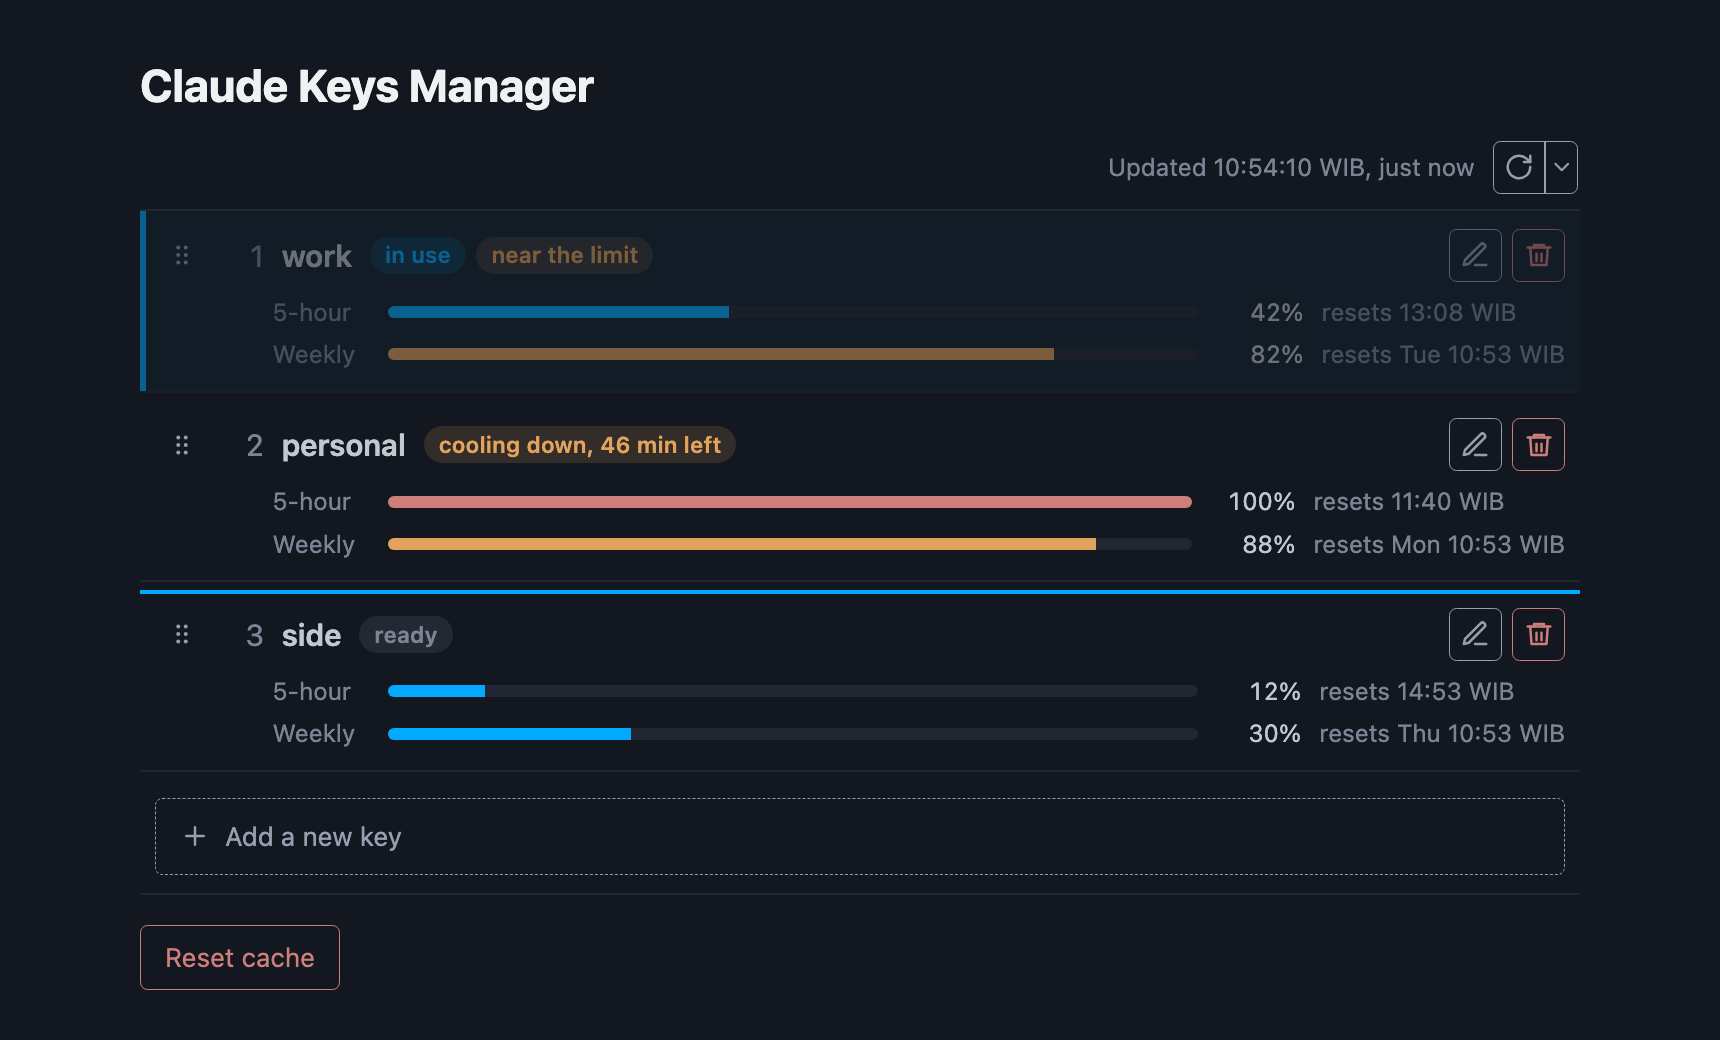
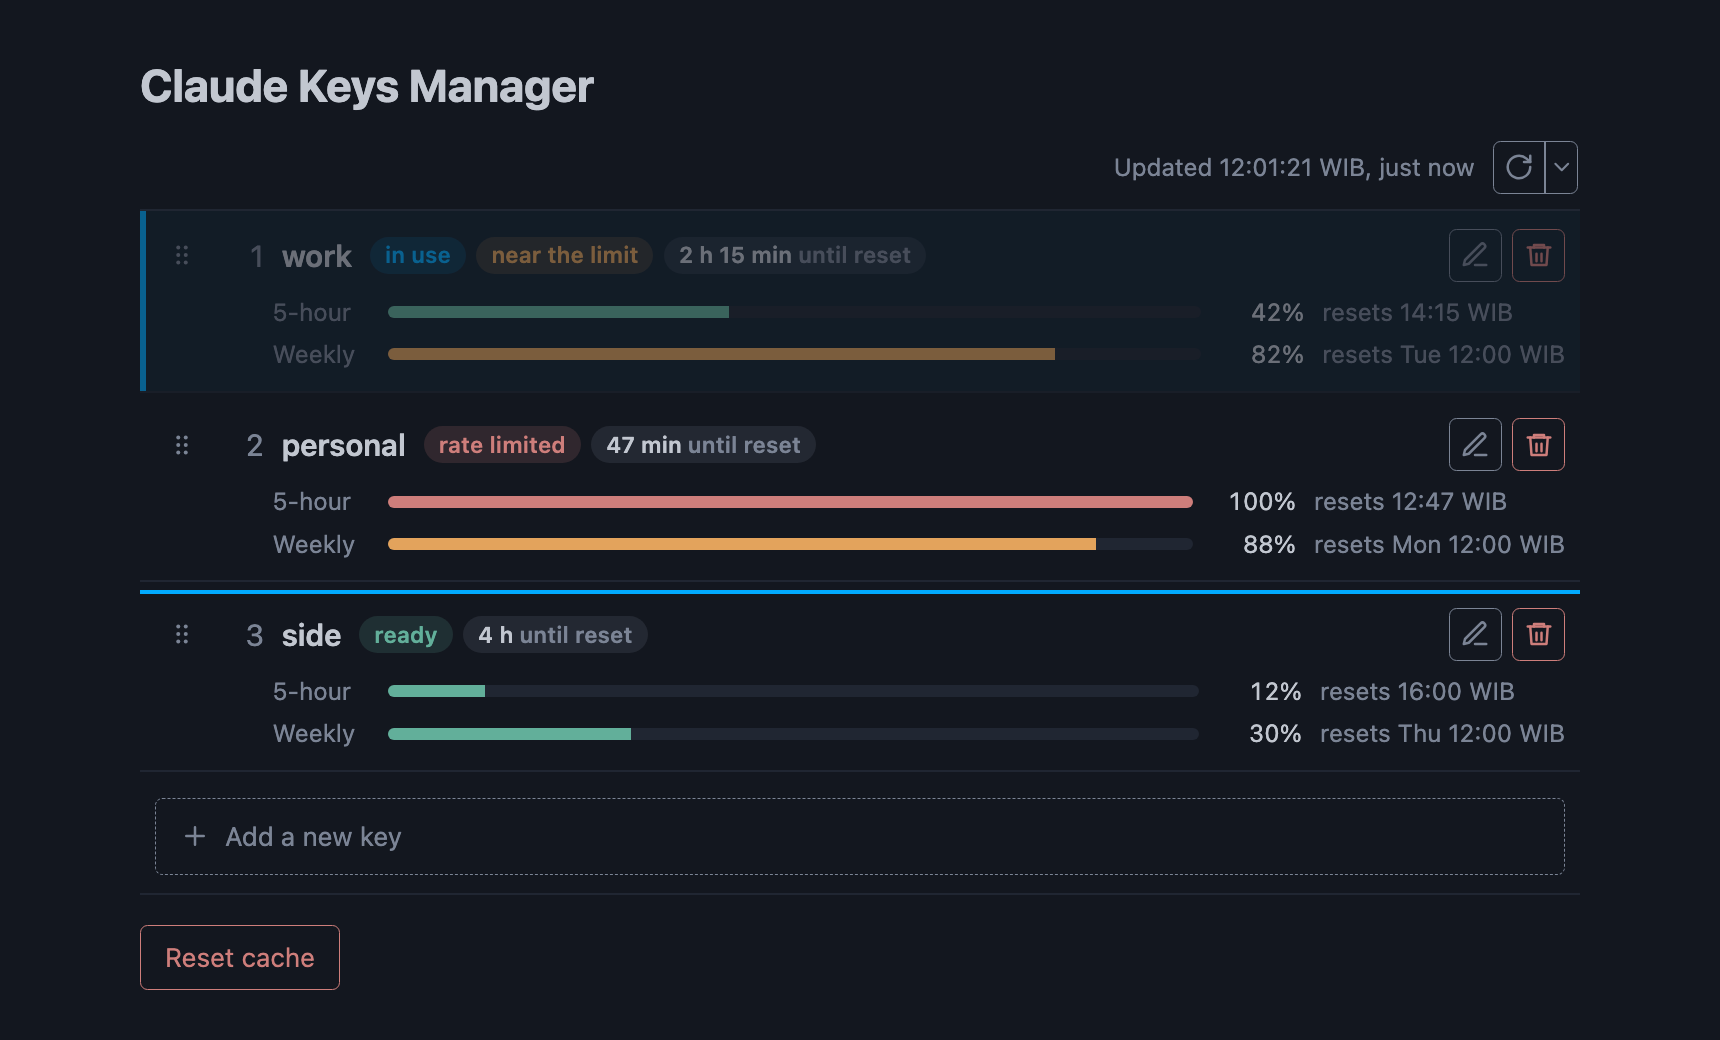
feat: color theme, status chips, and a reset that clears usage

diff --git a/src/claude_keyproxy/ui/theme.css b/src/claude_keyproxy/ui/theme.css
@@ -1,0 +1,71 @@
+/* The color theme. Change a value here to recolor the whole page: Pico.css and style.css read only these.
+   The light palette applies by default, the dark one when the system is in dark mode. */
+
+:root {
+  --bg: #fff;               /* page background */
+  --surface: #fff;          /* dialogs and menus */
+  --surface-2: #fbfcfc;     /* dialog header and footer, fields, notes */
+  --text: #373c44;
+  --muted: #646b79;         /* secondary text, outline buttons, the time chip */
+  --border: #e7eaf0;        /* row rules, menu borders, empty bars */
+  --border-strong: #cfd5e2; /* field borders */
+  --accent: #0172ad;        /* links, focus, the key in use */
+  --accent-fill: #0172ad;   /* the background of the main button */
+  --ok: #1d6a54;            /* the "ready" chip, usage bars below the warning level */
+  --warn: #a35200;          /* near the limit, cooling down, bars from 80% */
+  --danger: #883935;        /* rate limited, bars from 95%, delete, errors */
+  --on-fill: #fff;          /* text on a filled button */
+}
+
+@media (prefers-color-scheme: dark) {
+  :root {
+    --bg: #13171f;
+    --surface: #181c25;
+    --surface-2: #1a1f28;
+    --text: #c2c7d0;
+    --muted: #7b8495;
+    --border: #202632;
+    --border-strong: #2a3140;
+    --accent: #01aaff;
+    --accent-fill: #0172ad;
+    --ok: #62af9a;
+    --warn: #e3a35c;
+    --danger: #ce7e7b;
+  }
+}
+
+/* Pico's own variables, taken from the theme. :root:root outranks Pico's :root:not(...) selectors. */
+:root:root {
+  --pico-background-color: var(--bg);
+  --pico-color: var(--text);
+  --pico-h1-color: var(--text);
+  --pico-h3-color: var(--text);
+  --pico-muted-color: var(--muted);
+  --pico-muted-border-color: var(--border);
+  --pico-primary: var(--accent);
+  --pico-primary-background: var(--accent-fill);
+  --pico-primary-border: var(--accent-fill);
+  --pico-primary-hover: color-mix(in srgb, var(--accent) 70%, var(--text));
+  --pico-primary-hover-background: color-mix(in srgb, var(--accent-fill) 85%, var(--text));
+  --pico-primary-hover-border: var(--pico-primary-hover-background);
+  --pico-primary-focus: color-mix(in srgb, var(--accent) 45%, transparent);
+  --pico-primary-inverse: var(--on-fill);
+  --pico-secondary: var(--muted);
+  --pico-secondary-hover: var(--text);
+  --pico-secondary-border: var(--border-strong);
+  --pico-secondary-hover-border: var(--muted);
+  --pico-del-color: var(--danger);
+  --pico-ins-color: var(--ok);
+  --pico-card-background-color: var(--surface);
+  --pico-card-sectioning-background-color: var(--surface-2);
+  --pico-card-border-color: var(--border);
+  --pico-dropdown-background-color: var(--surface);
+  --pico-dropdown-border-color: var(--border);
+  --pico-dropdown-hover-background-color: var(--border);
+  --pico-dropdown-color: var(--text);
+  --pico-form-element-background-color: var(--surface-2);
+  --pico-form-element-border-color: var(--border-strong);
+  --pico-form-element-color: var(--text);
+  --pico-code-background-color: var(--surface-2);
+  --pico-code-color: var(--muted);
+}

diff --git a/src/claude_keyproxy/ui/app.js b/src/claude_keyproxy/ui/app.js
@@ -88,9 +88,12 @@ document.addEventListener("alpine:init", () => {
     state(k) {
       if (!k.last4) return { text: "key file missing", cls: "missing" };
       const left = this.cooldown?.[k.name];
-      if (left) return { text: `cooling down, ${duration(left)} left`, cls: "cool" };
+      if (left) {  // a cooldown also follows a rejected token, which is not a rate limit
+        const limited = this.usage?.[k.name]?.status === "rejected";
+        return limited ? { text: "rate limited", cls: "limited" } : { text: "cooling down", cls: "cool" };
+      }
       if (k.name === this.current) return { text: "in use", cls: "current" };
-      return { text: this.cooldown ? "ready" : "", cls: "" };
+      return { text: this.cooldown ? "ready" : "", cls: "ready" };
     },
 
     quota(k) {
@@ -111,13 +114,19 @@ document.addEventListener("alpine:init", () => {
       return { bars, note: "" };
     },
 
-    // Anthropic's status for the key, a second chip. allowed_warning: past one of its warning thresholds.
-    // A rejected key that is cooling down already says so.
-    limit(k) {
-      const status = this.usage?.[k.name]?.status;
-      if (status === "allowed_warning") return { text: "near the limit", cls: "near" };
-      if (status === "rejected" && !this.cooldown?.[k.name]) return { text: "rate limited", cls: "limited" };
-      return { text: "", cls: "" };
+    // the chips after a key's name: its state, Anthropic's warning, and the time until its limit resets
+    chips(k) {
+      const out = [this.state(k)];
+      if (this.usage?.[k.name]?.status === "allowed_warning") out.push({ text: "near the limit", cls: "near" });
+      const left = this.cooldown?.[k.name] || this.resetIn(k); // a cooling key waits for its cooldown instead
+      if (left) out.push({ time: duration(left), text: " until reset", cls: "" });
+      return out.filter((c) => c.text);
+    },
+
+    // seconds until the key's 5-hour window resets, 0 when unknown or already past
+    resetIn(k) {
+      const w = this.usage?.[k.name]?.["5h"];
+      return w ? Math.max(0, Math.round(w.reset - this.now / 1000)) : 0;
     },
 
     // "5h 42% · 7d 61%", beside the name on phones while the usage is folded
@@ -146,7 +155,7 @@ document.addEventListener("alpine:init", () => {
     get dlgText() {
       return {
         delete: "Removes the key and its token file.",
-        reset: "Resets the cooling down status, so every key is ready.",
+        reset: "Resets the cooling down status and the usage, so every key is ready.",
         probe: "Sends a 1-token request with every key to read its usage.",
       }[this.dlg.mode] || "";
     },
@@ -244,8 +253,9 @@ document.addEventListener("alpine:init", () => {
     },
 
     async reset() {
-      this.cooldown = await call("POST", "/cache/reset", {});
+      await call("POST", "/cache/reset", {});
       this.$refs.dlg.close();
+      await this.poll();
     },
 
     async move(from, to, focus) {

diff --git a/src/claude_keyproxy/ui/index.html b/src/claude_keyproxy/ui/index.html
@@ -6,6 +6,7 @@
 <title>Claude Keys Manager</title>
 <link rel="icon" href="data:,">
 <link rel="stylesheet" href="/_keyproxy/pico.min.css">
+<link rel="stylesheet" href="/_keyproxy/theme.css">
 <link rel="stylesheet" href="/_keyproxy/style.css">
 <script src="/_keyproxy/app.js" defer></script>
 <script src="/_keyproxy/alpine.min.js" defer></script>
@@ -22,7 +23,7 @@
       <details class="more" x-ref="more" @click.outside="$el.open = false" @keydown.escape="$el.open = false">
         <summary role="button" class="icon outline secondary" aria-label="More options"><svg viewBox="0 0 24 24" aria-hidden="true"><path d="m6 9 6 6 6-6"/></svg></summary>
         <ul>
-          <li><a href="#" @click.prevent="$refs.more.open = false; openDialog('probe')">Check usage of all keys…</a></li>
+          <li><a href="#" @click.prevent="$refs.more.open = false; openDialog('probe')">Check usage of all keys</a></li>
         </ul>
       </details>
     </span>
@@ -38,8 +39,9 @@
           <span class="pos mono" x-text="i + 1"></span>
           <span class="name"><span class="label" x-text="k.name"></span><svg class="chev" viewBox="0 0 24 24" aria-hidden="true"><path d="m6 9 6 6 6-6"/></svg><span class="mini" x-text="mini(k)"></span></span>
           <span class="chips">
-            <span class="state" :class="state(k).cls" x-text="state(k).text"></span>
-            <span class="state" :class="limit(k).cls" x-text="limit(k).text"></span>
+            <template x-for="c in chips(k)" :key="c.text">
+              <span class="state" :class="c.cls"><span class="time" x-show="c.time" x-text="c.time"></span><span x-text="c.text"></span></span>
+            </template>
           </span>
           <span class="actions">
             <button type="button" class="icon outline secondary" title="New token" :aria-label="`New token for ${k.name}`"

diff --git a/src/claude_keyproxy/ui/style.css b/src/claude_keyproxy/ui/style.css
@@ -1,13 +1,9 @@
-/* App-specific rules on top of Pico.css. Colors come from Pico's variables, so dark mode is free. */
+/* App-specific rules on top of Pico.css. Every color comes from theme.css. */
 
 :root {
   --pico-font-size: 93.75%; /* 15px at every width; Pico grows it up to 131% on wide screens */
   --pico-form-element-spacing-vertical: 0.5rem;
   --pico-form-element-spacing-horizontal: 0.75rem;
-  --warn: #a35200;
-}
-@media (prefers-color-scheme: dark) {
-  :root:not([data-theme="light"]) { --warn: #e3a35c; }
 }
 
 main.container { max-width: 720px; padding-top: 2rem; }
@@ -57,7 +53,9 @@ li.dragging { opacity: 0.5; }
   font-weight: 600;
 }
 .state:empty { display: none; }
+.state .time { color: var(--text); }  /* the time in the "until reset" chip */
 .state.current { --tone: var(--pico-primary); }
+.state.ready { --tone: var(--ok); }
 .state.cool { --tone: var(--warn); }
 .state.missing, .state.limited { --tone: var(--pico-del-color); }
 .state.near { --tone: var(--warn); }
@@ -81,7 +79,7 @@ button.red[class], button.red[class]:is(:hover, :focus, :active) {
 }
 button.red[class]:not(.outline) {
   --pico-background-color: var(--pico-del-color);
-  --pico-color: #fff;
+  --pico-color: var(--on-fill);
 }
 button.add {
   display: flex;
@@ -189,7 +187,7 @@ dialog footer {
 .win { display: contents; }
 .pct { white-space: nowrap; text-align: right; color: var(--pico-color); font-variant-numeric: tabular-nums; }
 .bar { height: 6px; border-radius: 3px; background: var(--pico-muted-border-color); overflow: hidden; }
-.bar > span { display: block; height: 100%; width: 0; background: var(--pico-primary); }
+.bar > span { display: block; height: 100%; width: 0; background: var(--ok); }
 .bar.high > span { background: var(--warn); }
 .bar.full > span { background: var(--pico-del-color); }
 

diff --git a/src/claude_keyproxy/manager.py b/src/claude_keyproxy/manager.py
@@ -14,7 +14,7 @@ POST   /_keyproxy/api/keys/<name>/open  opens the token file in the default text
                                      never passes through the API.
 PUT    /_keyproxy/api/order          {"order": [names]} sets priority 1..n in that order
 GET    /_keyproxy/api/cache          the cooldowns, {name: seconds left}
-POST   /_keyproxy/api/cache/reset    clears the cooldowns
+POST   /_keyproxy/api/cache/reset    clears the cooldowns and the usage seen
 GET    /_keyproxy/api/usage          {name: usage}: 5h and 7d utilization and reset,
                                      null before the key served a request, "n/a" for API keys
 POST   /_keyproxy/api/usage/probe    the same, after one 1-token request with every subscription key.
@@ -56,6 +56,7 @@ UI_DIR = os.path.join(os.path.dirname(os.path.abspath(__file__)), "ui")
 FILES = {  # URL path -> (file in ui/, content type)
     "/": ("index.html", "text/html; charset=utf-8"),
     "/_keyproxy/pico.min.css": ("pico.min.css", "text/css; charset=utf-8"),
+    "/_keyproxy/theme.css": ("theme.css", "text/css; charset=utf-8"),
     "/_keyproxy/style.css": ("style.css", "text/css; charset=utf-8"),
     "/_keyproxy/app.js": ("app.js", "text/javascript; charset=utf-8"),
     "/_keyproxy/alpine.min.js": ("alpine.min.js", "text/javascript; charset=utf-8"),
@@ -343,7 +344,7 @@ def cooldowns(server: ProxyServer, _body: None) -> dict[str, int]:
 
 @api.route("POST", f"{API}/cache/reset")
 def reset_cooldowns(server: ProxyServer, _body: None) -> dict[str, int]:
-    server.pool.cooldowns.reset()
+    server.pool.reset()
     return server.pool.cooldowns.status()
 
 

diff --git a/tests/test_manager.py b/tests/test_manager.py
@@ -236,7 +236,9 @@ class ManagerTest(unittest.TestCase):
         self.assertEqual(self.call("POST", "/_keyproxy/api/cache/reset", {},
                                    {"origin": "https://evil.example"})[0], 403)
         self.assertEqual(list(self.call("GET", "/_keyproxy/api/cache")[1]), ["work"])
+        self.server.pool.usage["work"] = {"status": "rejected", "5h": None, "7d": None, "seen": 0}
         self.assertEqual(self.call("POST", "/_keyproxy/api/cache/reset", {}), (200, {}))
+        self.assertEqual(self.call("GET", "/_keyproxy/api/usage")[1], {"work": None})
 
     def test_headless_keeps_only_the_read_only_calls(self):
         self.server.headless = True

diff --git a/src/claude_keyproxy/mcp.py b/src/claude_keyproxy/mcp.py
@@ -111,7 +111,8 @@ def reorder_keys(api: Api, args: Json) -> Any:
     return api.call("PUT", "/order", {"order": args.get("order")})
 
 
-@tool("reset_cooldowns", "Make every key ready again, for example after a limit was lifted early.")
+@tool("reset_cooldowns", "Make every key ready again and forget the usage seen, for example after a limit was "
+      "lifted early.")
 def reset_cooldowns(api: Api, _args: Json) -> Any:
     return api.call("POST", "/cache/reset", {})
 

diff --git a/src/claude_keyproxy/keypool.py b/src/claude_keyproxy/keypool.py
@@ -138,6 +138,12 @@ class KeyPool:
             return None
         return self.cooldowns.cool(name, resp, BAD_AUTH_COOLDOWN if bad_auth else DEFAULT_COOLDOWN)
 
+    def reset(self) -> None:
+        """Forget the cooldowns and the usage, as if no key had served a request."""
+        self.cooldowns.reset()
+        with self.lock:
+            self.usage.clear()
+
     def seen(self) -> dict[str, Usage]:
         with self.lock:
             return dict(self.usage)

diff --git a/AGENTS.md b/AGENTS.md
@@ -67,7 +67,7 @@ If the user already has tokens and does not want the page, write them as files i
 | `src/claude_keyproxy/mcp.py` | the `keyproxy-mcp` command: an MCP server over stdin and stdout, a thin client of the key manager API |
 | `src/claude_keyproxy/setup_token.py` | runs `claude setup-token`: `Pty` drives the terminal, `find_link` and `find_token` parse its output, `Session` ties them together |
 | `src/claude_keyproxy/http_json.py` | `JsonHandler`, the base of the request handler, and the `Router` behind `@api.route` |
-| `src/claude_keyproxy/ui/` | the key manager page, shipped inside the package. Alpine.js and Pico.css are vendored and minified, never edit them |
+| `src/claude_keyproxy/ui/` | the key manager page, shipped inside the package. Every color is in `theme.css`, a light and a dark palette. Alpine.js and Pico.css are vendored and minified, never edit them |
 | `bin/` | `keyproxy-up` and `claude-keyproxy` for a clone that is not installed. They only set `PYTHONPATH` and call `cli.py` |
 | `tests/` | unit tests, one file per module. `server.py` and `http_json.py` have none, because every server test goes through them |
 | `docs/*.png` | the README screenshots |
@@ -123,7 +123,7 @@ Served by the proxy itself, from `src/manager.py`, on 127.0.0.1:18787. `--headle
 | `POST /_keyproxy/api/setup/cancel` `{"id"}` | stops a sign-in |
 | `PUT /_keyproxy/api/order` `{"order":[names]}` | sets the priority to that order |
 | `GET /_keyproxy/api/cache` | the proxy's cooldowns, seconds left per key |
-| `POST /_keyproxy/api/cache/reset` `{}` | clears the cooldowns |
+| `POST /_keyproxy/api/cache/reset` `{}` | clears the cooldowns and the usage seen |
 | `GET /_keyproxy/api/usage` | 5-hour and weekly usage per key |
 | `POST /_keyproxy/api/usage/probe` `{}` | sends a 1-token request with every subscription key, then returns the usage. It starts a 5-hour window |
 

diff --git a/CHANGELOG.md b/CHANGELOG.md
@@ -7,14 +7,14 @@ The format follows [Keep a Changelog](https://keepachangelog.com/en/1.1.0/), and
 ### Added
 
 - **Check usage of all keys**, in a menu next to the refresh button. It sends a 1-token request with every key to read its usage, after a confirmation.
-- A chip for Anthropic's status: "near the limit" or "rate limited".
+- A "near the limit" chip when Anthropic warns that a key is close to its limit. A cooling key shows "rate limited" and the time left as two chips.
 - The page works on narrow screens. Each key folds into one line with its usage, and reordering works by touch.
 
 ### Changed
 
 - Reordering uses pointer events instead of HTML5 drag and drop, so it works on touch screens.
 - The last 4 characters of a token show only in the "New token" dialog. A button there opens the token file in your text editor.
-- **Reset cache** asks for confirmation first.
+- **Reset cache** asks for confirmation first, and clears the usage seen as well as the cooldowns.
 - Success messages are gone. Only errors show below the list.
 
 ## [0.1.0]
